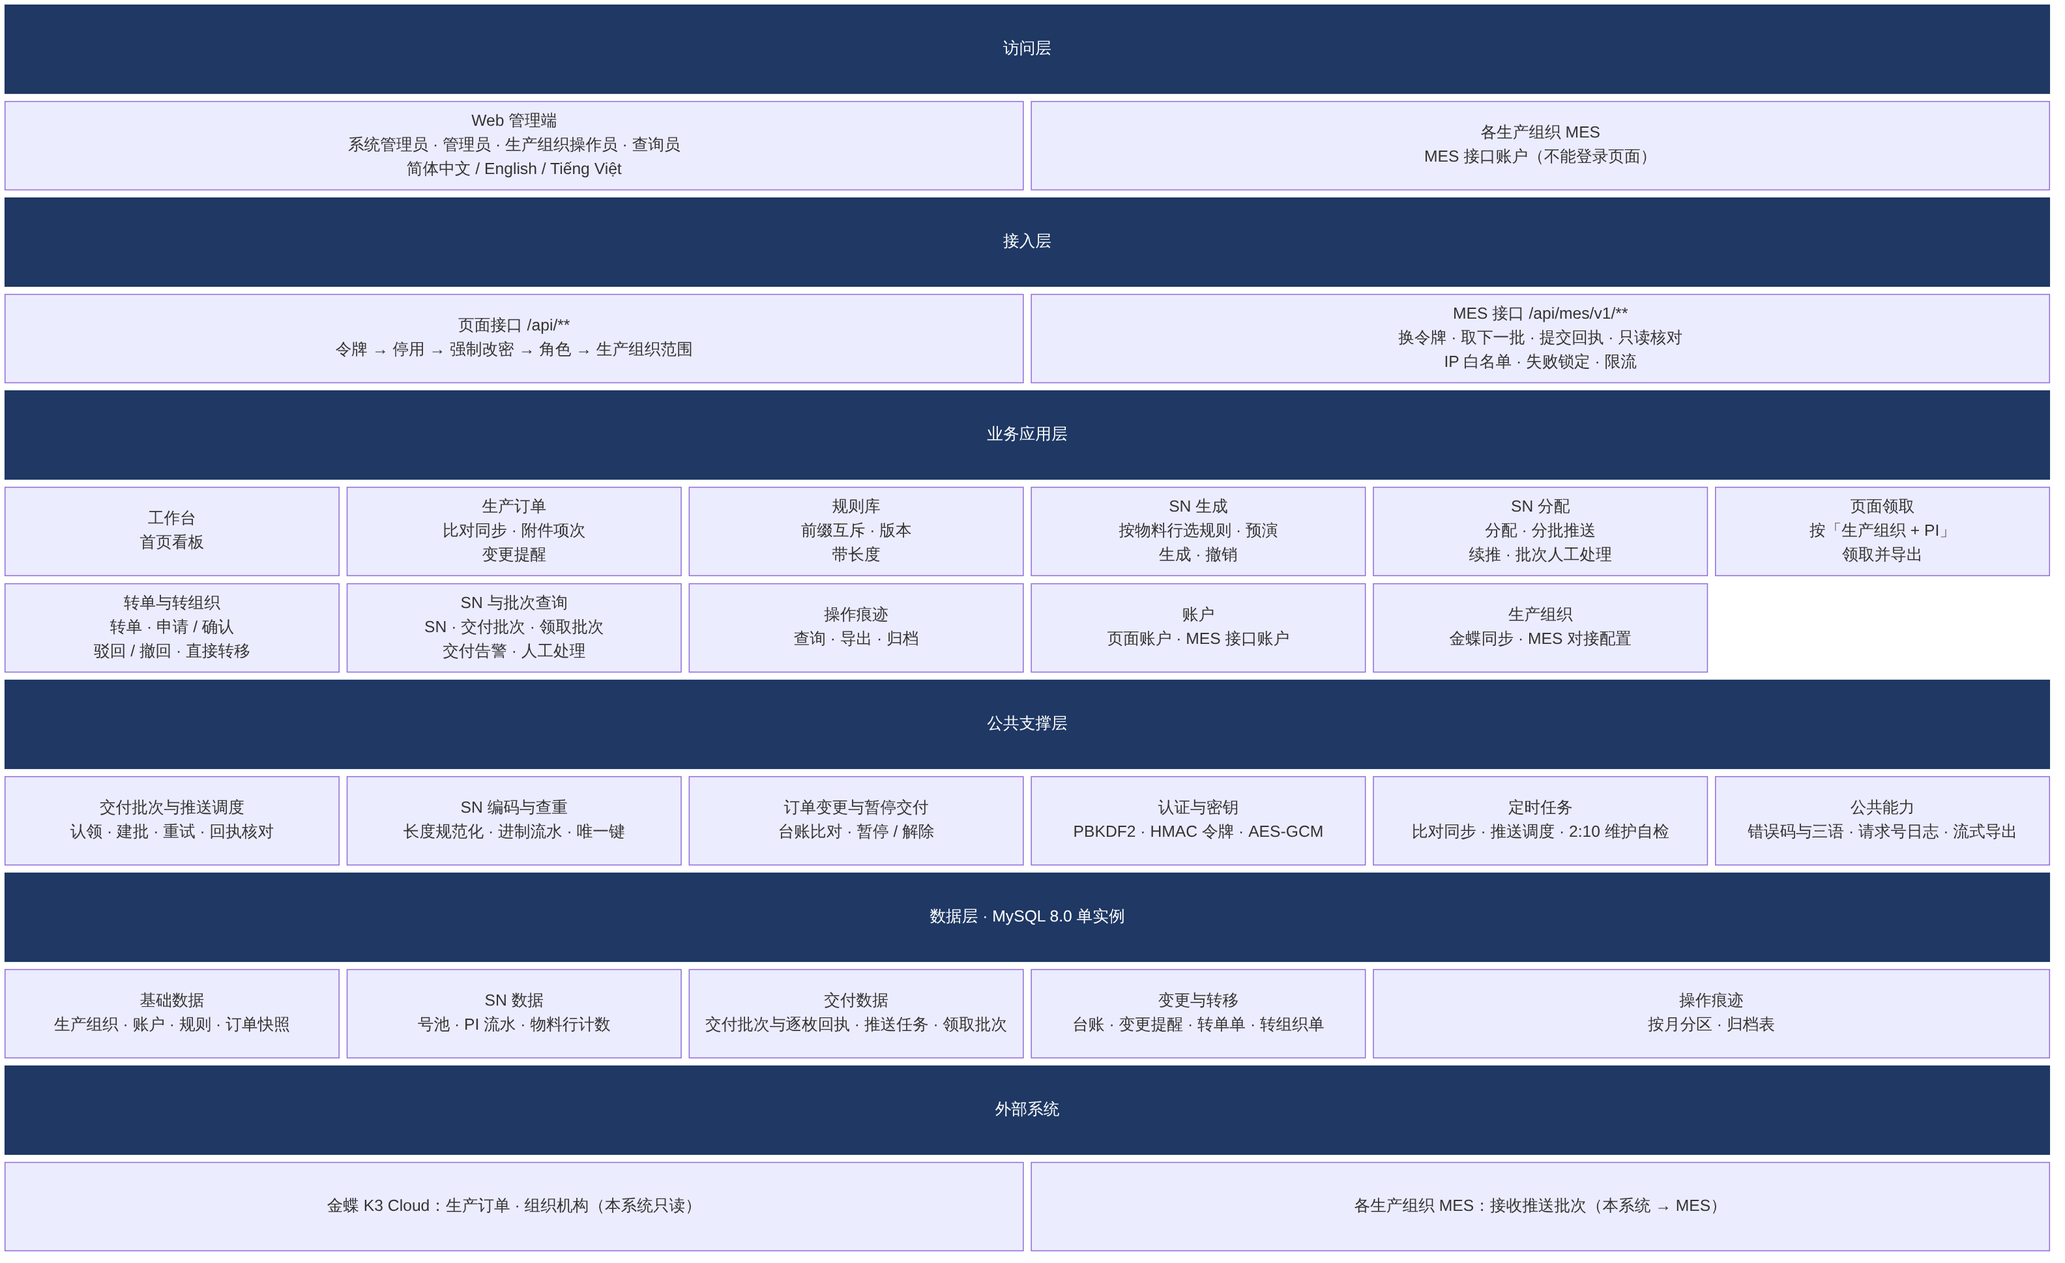
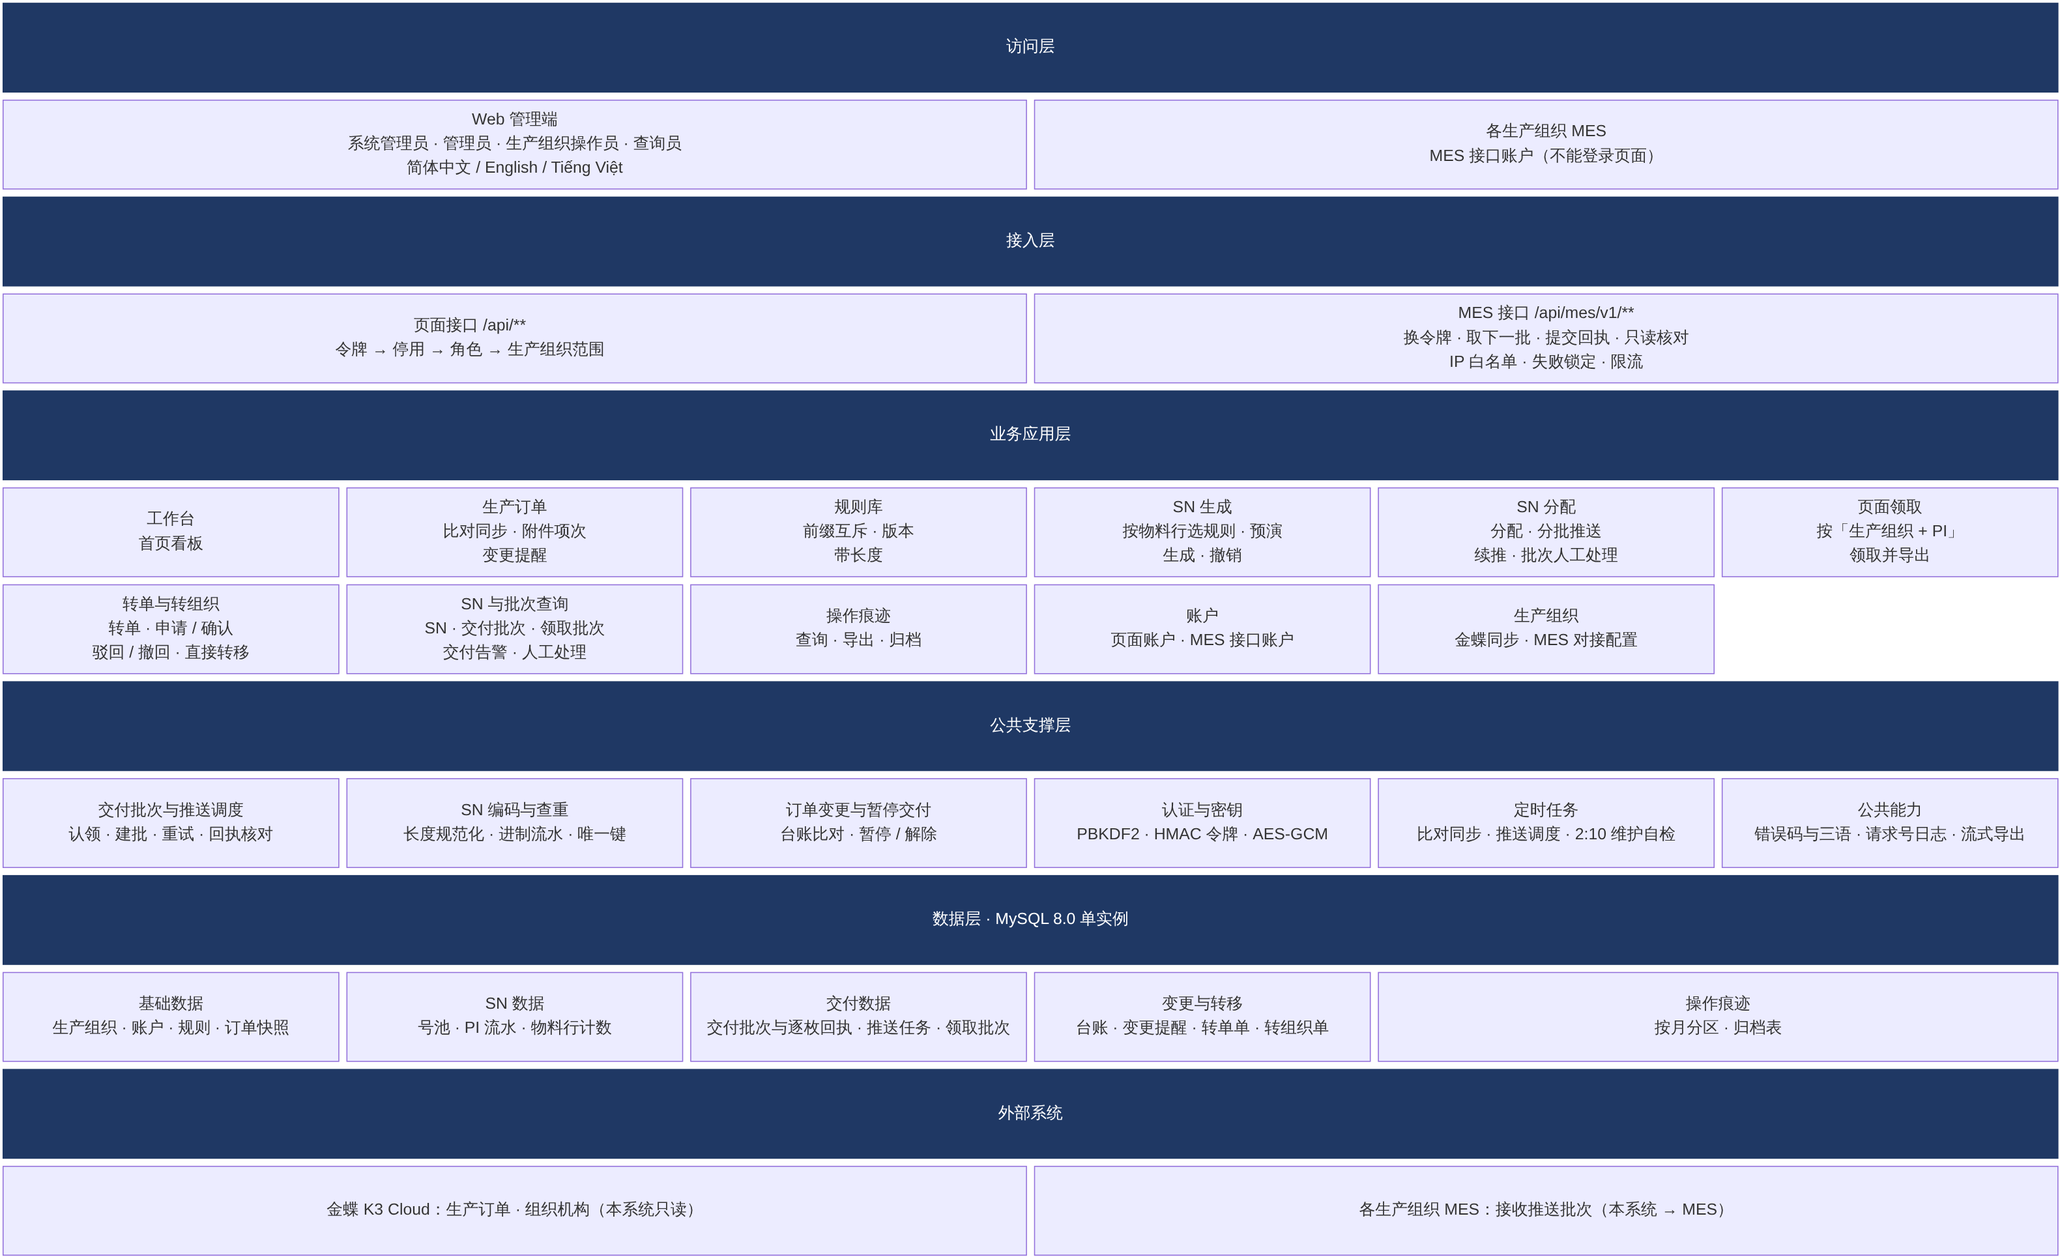
账户：取消强制改密；本人改密、系统管理员重置密码后须用新密码重新登录
- 新账户、被重置密码的账户都用工号和密码直接登录使用，任何时候不强制改密（去掉 PASSWORD_CHANGE_REQUIRED 与前端强制跳转）
- 本人改密不再发新令牌：该账户所有页面（含当前页面）退出，登录页提示「密码已修改或被重置，请用新密码重新登录」
- 系统管理员重置密码后，该账户已登录的页面在下一次请求时同样退出并提示（新错误码 PASSWORD_CHANGED，401）
- 改密页常驻说明「修改成功后须重新登录」；账户页去掉「须改密」标签，重置密码弹窗文案同步
- 工号区分大小写（hq01 与 HQ01 可并存）写入 PRD 与运维手册
- PRD F-01 第 2–4 条与 Q3、系统技术方案、运维手册、功能架构图同步

Claude-Session: https://claude.ai/code/session_01MM5mtzMvFqfDi9jrWxbpxQ

diff --git a/frontend/src/stores/auth.ts b/frontend/src/stores/auth.ts
@@ -30,7 +30,6 @@ export const useAuthStore = defineStore("auth", () => {
   const scopeFactories = computed<string[]>(() => profile.value?.factory_codes ?? (boundFactory.value ? [boundFactory.value] : []));
   const scopeNames = computed(() => (profile.value?.factory_names ?? [profile.value?.factory_name || boundFactory.value]).join("、"));
   const bound = computed(() => scopeFactories.value.length > 0);
-  const mustChangePwd = computed(() => !!profile.value?.must_change_pwd);
   /** 能做页面领取（总部代任一组织、本组织操作员）。 */
   const canAct = computed(() => isAdmin.value || isFactory.value);
 
@@ -61,9 +60,10 @@ export const useAuthStore = defineStore("auth", () => {
     if (pref) setLocale(pref);
   }
 
+  /** 改密成功后不发新令牌：本账户所有页面（含本页）退出，用新密码重新登录。 */
   async function changePassword(oldPwd: string, newPwd: string) {
-    const res = await api.changePassword(oldPwd, newPwd);
-    persist(res.token, res.user);
+    await api.changePassword(oldPwd, newPwd);
+    clear();
   }
 
   async function refresh() {
@@ -75,7 +75,7 @@ export const useAuthStore = defineStore("auth", () => {
 
   async function changeLocale(locale: Locale) {
     setLocale(locale);
-    if (!token.value || mustChangePwd.value) return;
+    if (!token.value) return;
     try {
       const me = await api.setLang(locale);
       profile.value = me;
@@ -93,7 +93,7 @@ export const useAuthStore = defineStore("auth", () => {
 
   return {
     token, profile, role, isAdmin, isSuperAdmin, isFactory, isQuery, boundFactory, scopeFactories, scopeNames, bound,
-    mustChangePwd, canAct,
+    canAct,
     login, changePassword, refresh, changeLocale, clear,
   };
 });

diff --git a/frontend/src/views/ChangePassword.vue b/frontend/src/views/ChangePassword.vue
@@ -2,7 +2,7 @@
   <div class="wrap">
     <div class="panel">
       <h2>{{ t("password.title") }}</h2>
-      <el-alert v-if="store.mustChangePwd" type="warning" :closable="false" show-icon :title="t('password.forced')" />
+      <el-alert type="info" :closable="false" show-icon :title="t('password.relogin')" />
       <el-form ref="formRef" :model="form" :rules="rules" label-position="top" class="form" @submit.prevent="submit">
         <el-form-item :label="t('password.old')" prop="old">
           <el-input v-model="form.old" type="password" show-password autocomplete="current-password" />
@@ -15,8 +15,7 @@
           <el-input v-model="form.confirm" type="password" show-password autocomplete="new-password" />
         </el-form-item>
         <div class="actions">
-          <el-button v-if="!store.mustChangePwd" @click="router.back()">{{ t("common.cancel") }}</el-button>
-          <el-button v-else @click="logout">{{ t("app.logout") }}</el-button>
+          <el-button @click="router.back()">{{ t("common.cancel") }}</el-button>
           <el-button type="primary" :loading="loading" native-type="submit">{{ t("common.save") }}</el-button>
         </div>
       </el-form>
@@ -58,15 +57,10 @@ async function submit() {
   try {
     await store.changePassword(form.old, form.next);
     ElMessage.success(t("password.done"));
-    router.push("/");
+    router.push({ path: "/login", query: { reason: "PASSWORD_CHANGED" } });
   } finally {
     loading.value = false;
   }
-}
-
-function logout() {
-  store.clear();
-  router.push("/login");
 }
 </script>
 

diff --git a/frontend/src/views/Users.vue b/frontend/src/views/Users.vue
@@ -38,7 +38,6 @@
         <el-table-column :label="t('common.status')" width="150">
           <template #default="{ row }">
             <el-tag size="small" :type="row.status === 'ACTIVE' ? 'success' : 'info'">{{ row.status === "ACTIVE" ? t("users.active") : t("users.disabled") }}</el-tag>
-            <el-tag v-if="row.must_change_pwd" size="small" type="warning" class="ml">{{ t("users.mustChange") }}</el-tag>
             <el-tooltip v-if="isLocked(row)" :content="t('users.lockedUntil', { time: fmt(row.locked_until) })">
               <el-tag size="small" type="danger" class="ml">{{ t("users.locked") }}</el-tag>
             </el-tooltip>

diff --git a/frontend/src/api/http.ts b/frontend/src/api/http.ts
@@ -114,11 +114,7 @@ http.interceptors.response.use(
     if (status === 401 && !isLogin) {
       const { useAuthStore } = await import("@/stores/auth");
       useAuthStore().clear();
-      goLogin(code === "SESSION_REPLACED" ? code : undefined);
-    } else if (code === "PASSWORD_CHANGE_REQUIRED") {
-      if (!window.location.pathname.endsWith("/password")) {
-        window.location.href = "/password";
-      }
+      goLogin(code === "SESSION_REPLACED" || code === "PASSWORD_CHANGED" ? code : undefined);
     } else if (!err.config?.silent) {
       ElMessage.error({ message, duration: 5000, showClose: true });
     }

diff --git a/frontend/src/router/index.ts b/frontend/src/router/index.ts
@@ -62,7 +62,6 @@ router.beforeEach((to) => {
   const store = useAuthStore();
   if (to.meta.public) return true;
   if (!store.token) return { name: "login", query: { redirect: to.fullPath } };
-  if (store.mustChangePwd && to.name !== "password") return { name: "password" };
   const roles = to.meta.roles as string[] | undefined;
   if (roles && !roles.includes(store.role)) return { path: "/" };
   if (to.meta.superAdmin && !store.isSuperAdmin) return { path: "/" };

diff --git a/frontend/src/views/Login.vue b/frontend/src/views/Login.vue
@@ -64,11 +64,7 @@ async function onLogin() {
   loading.value = true;
   try {
     await store.login(empNo.value.trim(), password.value);
-    if (store.mustChangePwd) {
-      router.push("/password");
-    } else {
-      router.push((route.query.redirect as string) || "/");
-    }
+    router.push((route.query.redirect as string) || "/");
   } catch {
     // 错误提示已由 http 拦截器弹出
   } finally {

diff --git a/frontend/src/types/api.ts b/frontend/src/types/api.ts
@@ -32,7 +32,6 @@ export interface UserView {
   locked_until: string | null;
   /** 显示时区（分钟，东八区 = 480） */
   tz_offset_min: number;
-  must_change_pwd: boolean;
   lang: string | null;
   last_login_at: string | null;
   created_at: string;

diff --git a/app/services/users.py b/app/services/users.py
@@ -1,7 +1,7 @@
 """登录、改密与账户管理（F-01）。账户只停用不删除；只有系统管理员能维护账户。
 
-页面账户（系统管理员 / 管理员 / 生产组织操作员 / 查询员）用初始密码直接登录，不强制改密；
-系统管理员重置他人密码后下次登录须改密。
+页面账户（系统管理员 / 管理员 / 生产组织操作员 / 查询员）用工号和密码直接登录，任何时候都不强制改密；
+本人改密、系统管理员重置密码后，该账户所有页面的令牌失效，须用新密码重新登录。
 MES 接口账户不能登录页面：创建或重置时系统生成密钥（只显示一次），MES 用工号 + 密钥换取令牌；
 连续失败 SN_MES_AUTH_MAX_FAILURES 次锁定 SN_MES_AUTH_LOCK_MINUTES 分钟（锁定期间密钥正确也拒绝），锁定和解锁留痕；
 可配置来源地址白名单。重置密钥后旧密钥和旧令牌立即失效。
@@ -56,7 +56,6 @@ def _view(u: dict, names: dict[str, str], bound: list[str]) -> dict:
         "ip_whitelist": u["ip_whitelist"] if u["role"] == util.MES else None,
         "locked_until": util.fmt(u["locked_until"]) if u["role"] == util.MES else None,
         "tz_offset_min": factories.tz_offset(tuple(codes)),
-        "must_change_pwd": bool(u["must_change_pwd"]),
         "lang": u["lang"],
         "last_login_at": util.fmt(u["last_login_at"]),
         "created_at": util.fmt(u["created_at"]),
@@ -173,8 +172,8 @@ def me(cu: CurrentUser) -> dict:
     return view(_must_get(cu.id))
 
 
-def change_password(cu: CurrentUser, old_password: str | None, new_password: str | None, page: bool = False) -> dict:
-    """改自己的密码；返回新令牌（旧令牌随口令版本失效；页面令牌沿用当前登录版本）。"""
+def change_password(cu: CurrentUser, old_password: str | None, new_password: str | None) -> dict:
+    """改自己的密码。不发新令牌：旧令牌随口令版本全部失效（包括当前页面），须用新密码重新登录。"""
     with db.tx():
         u = _must_get(cu.id)
         if not verify_password(old_password, u["password_hash"]):
@@ -192,8 +191,7 @@ def change_password(cu: CurrentUser, old_password: str | None, new_password: str
             u["id"],
         )
         audit.record(cu, audit.entry(audit.PASSWORD_CHANGE).info(u["emp_no"]))
-        fresh = _must_get(u["id"])
-        return {"token": _token(fresh, page), "user": view(fresh)}
+        return {"relogin": True}
 
 
 def set_lang(cu: CurrentUser, lang: str | None) -> dict:
@@ -503,7 +501,7 @@ def enable(cu: CurrentUser, uid: int) -> dict:
 
 
 def reset_password(cu: CurrentUser, uid: int, password: str | None) -> dict:
-    """重置为管理员给定的初始密码；下次登录必须改密，旧令牌失效。"""
+    """重置为系统管理员给定的密码：旧令牌全部失效，该账户用新密码重新登录（不强制改密）。"""
     with db.tx():
         u = _must_get(uid)
         if u["role"] == util.MES:
@@ -511,7 +509,7 @@ def reset_password(cu: CurrentUser, uid: int, password: str | None) -> dict:
         check_policy(password)
         now = util.now()
         db.exec(
-            "UPDATE sn_user SET password_hash = %s, must_change_pwd = 1, pwd_changed_at = %s, updated_at = %s "
+            "UPDATE sn_user SET password_hash = %s, must_change_pwd = 0, pwd_changed_at = %s, updated_at = %s "
             "WHERE id = %s",
             hash_password(password),
             _next_pv(u, now),

diff --git a/app/api/deps.py b/app/api/deps.py
@@ -1,4 +1,4 @@
-"""/api 鉴权依赖：Bearer 令牌 → 账户（停用即拒绝；页面令牌在别的页面重新登录即拒绝）→ 强制改密 → 角色。
+"""/api 鉴权依赖：Bearer 令牌 → 账户（改密或被重置即拒绝、停用即拒绝；页面令牌在别的页面重新登录即拒绝）→ 角色。
 
 当前账户挂到 request.state.user，全局 BizError 处理据此记失败痕迹。
 """
@@ -26,10 +26,6 @@ async def run_sync(fn: Callable[..., Any], *args: Any, **kwargs: Any) -> Any:
     return await asyncio.to_thread(fn, *args, **kwargs)
 
 
-#: 强制改密期间仍可调用的接口
-PWD_CHANGE_ALLOWED = frozenset(("/api/auth/me", "/api/auth/password", "/api/auth/lang"))
-
-
 def authenticate(request: Request) -> CurrentUser:
     header = request.headers.get("Authorization")
     token = None
@@ -39,12 +35,15 @@ def authenticate(request: Request) -> CurrentUser:
         raise biz(ErrorCode.UNAUTHENTICATED)
     claims = parse_token(token)
     user = db.one(
-        "SELECT id, emp_no, name, role, factory_code, status, must_change_pwd, pwd_changed_at, last_login_at "
+        "SELECT id, emp_no, name, role, factory_code, status, pwd_changed_at, last_login_at "
         "FROM sn_user WHERE id = %s",
         claims.user_id,
     )
-    if user is None or pwd_version(user["pwd_changed_at"]) != claims.pwd_version:
+    if user is None:
         raise biz(ErrorCode.TOKEN_INVALID)
+    if pwd_version(user["pwd_changed_at"]) != claims.pwd_version:
+        # 本人改密或被重置密码：所有页面都要用新密码重新登录
+        raise biz(ErrorCode.PASSWORD_CHANGED)
     if user["status"] != "ACTIVE":
         raise biz(ErrorCode.ACCOUNT_DISABLED)
     if claims.session_version is not None and session_version(user["last_login_at"]) != claims.session_version:
@@ -52,7 +51,6 @@ def authenticate(request: Request) -> CurrentUser:
     if user["role"] == util.MES:
         # MES 接口账户只能调 /api/mes/v1
         raise biz(ErrorCode.FORBIDDEN)
-    request.state.page_session = claims.session_version is not None
     path = request.url.path
     source = API if path.startswith("/api/mes/") or claims.session_version is None else PAGE
     cu = CurrentUser(
@@ -66,8 +64,6 @@ def authenticate(request: Request) -> CurrentUser:
         users.read_scope(user["id"], user["role"], user["factory_code"]),
     )
     request.state.user = cu
-    if user["must_change_pwd"] and path not in PWD_CHANGE_ALLOWED:
-        raise biz(ErrorCode.PASSWORD_CHANGE_REQUIRED)
     return cu
 
 

diff --git a/frontend/scripts/ui/users.py b/frontend/scripts/ui/users.py
@@ -25,7 +25,6 @@ M = {
 "users.initPwd": ("初始密码", "Initial password", "Mật khẩu ban đầu"),
 "users.active": ("启用", "Active", "Đang dùng"),
 "users.disabled": ("停用", "Disabled", "Vô hiệu"),
-"users.mustChange": ("须改密", "Must change password", "Phải đổi mật khẩu"),
 "users.locked": ("已锁定", "Locked", "Đã khóa"),
 "users.lockedUntil": ("换取令牌连续失败，锁定到 {time}", "Too many failed token requests; locked until {time}", "Lấy mã thông báo thất bại liên tiếp; khóa đến {time}"),
 "users.lastLogin": ("最近登录", "Last sign-in", "Đăng nhập gần nhất"),
@@ -35,7 +34,7 @@ M = {
 "users.enable": ("启用", "Enable", "Kích hoạt"),
 "users.disableConfirm": ("停用账户 {emp}（{name}）？停用后不能登录或调用接口，可重新启用。", "Disable account {emp} ({name})? It can no longer sign in or call the API, and can be re-enabled.", "Vô hiệu tài khoản {emp} ({name})? Sau đó không đăng nhập hay gọi API được, có thể kích hoạt lại."),
 "users.resetPwd": ("重置密码", "Reset password", "Đặt lại mật khẩu"),
-"users.resetPrompt": ("为 {emp} 设置新密码（下次登录须先改密，旧令牌失效）", "New password for {emp} (must be changed at next sign-in; old tokens are revoked)", "Mật khẩu mới cho {emp} (phải đổi ở lần đăng nhập sau; mã cũ mất hiệu lực)"),
+"users.resetPrompt": ("为 {emp} 设置新密码（该账户已登录的页面随即退出，须用新密码重新登录）", "New password for {emp} (pages signed in with it sign out; sign in again with the new password)", "Mật khẩu mới cho {emp} (các trang đang đăng nhập sẽ thoát; đăng nhập lại bằng mật khẩu mới)"),
 "users.resetDone": ("密码已重置", "Password reset", "Đã đặt lại mật khẩu"),
 "users.ipWhitelist": ("来源地址白名单", "Source address whitelist", "Danh sách địa chỉ nguồn"),
 "users.ipAny": ("不限", "Any", "Không giới hạn"),

diff --git a/tests/test_accounts.py b/tests/test_accounts.py
@@ -32,6 +32,24 @@ def test_single_page_session(w, api):
     assert api.get("/api/auth/me", t2).status == 200
 
 
+def test_password_change_and_reset_require_relogin_without_forced_change(w, api):
+    e = emp()
+    t1 = w.user(e, "query", None)
+    assert api.get("/api/dashboard", t1).status == 200, "新账户直接可用，不强制改密"
+    r = ok(api.post("/api/auth/password", m(old_password="Pass1234", new_password="Pass5678"), t1))
+    assert r["relogin"] is True, "本人改密不发新令牌，须重新登录"
+    assert api.get("/api/auth/me", t1).code == "PASSWORD_CHANGED", "改密后当前页面也须重新登录"
+    assert api.page_login(e, "Pass1234").code == "LOGIN_FAILED"
+    t2 = ok(api.page_login(e, "Pass5678")).text("token")
+    assert api.get("/api/dashboard", t2).status == 200
+
+    me = ok(api.get("/api/auth/me", t2))
+    ok(api.post(f"/api/users/{me['id']}/reset-password", m(password="Reset123"), w.admin))
+    assert api.get("/api/auth/me", t2).code == "PASSWORD_CHANGED", "重置后已登录的页面须重新登录"
+    t3 = ok(api.page_login(e, "Reset123")).text("token")
+    assert api.get("/api/dashboard", t3).status == 200, "重置后用新密码登录即可使用，不强制改密"
+
+
 def test_mes_account_cannot_login_page_and_secret_once(w, api, sql):
     org = w.org(uid("O")[:10])
     r = api.post("/api/users", m(emp_no=emp("M"), name="M", role="mes", factory_code=org), w.admin)

diff --git a/frontend/scripts/ui_messages.py b/frontend/scripts/ui_messages.py
@@ -245,7 +245,7 @@ M = {
   "Accounts are created by the system administrator with the company employee No.; ask the system administrator for your password.",
   "Tài khoản do quản trị viên hệ thống tạo theo mã nhân viên; hãy hỏi quản trị viên hệ thống mật khẩu."),
 "password.title": ("修改密码", "Change password", "Đổi mật khẩu"),
-"password.forced": ("密码已被系统管理员重置，请先修改密码。", "Your password was reset by the system administrator: please change it first.", "Mật khẩu đã được quản trị viên hệ thống đặt lại: vui lòng đổi mật khẩu trước."),
+"password.relogin": ("修改成功后本账户所有页面都会退出，须用新密码重新登录。", "After the change every page signed in with this account signs out; sign in again with the new password.", "Sau khi đổi, mọi trang đang đăng nhập tài khoản này sẽ thoát; hãy đăng nhập lại bằng mật khẩu mới."),
 "password.old": ("当前密码", "Current password", "Mật khẩu hiện tại"),
 "password.new": ("新密码", "New password", "Mật khẩu mới"),
 "password.confirm": ("确认新密码", "Confirm new password", "Xác nhận mật khẩu mới"),
